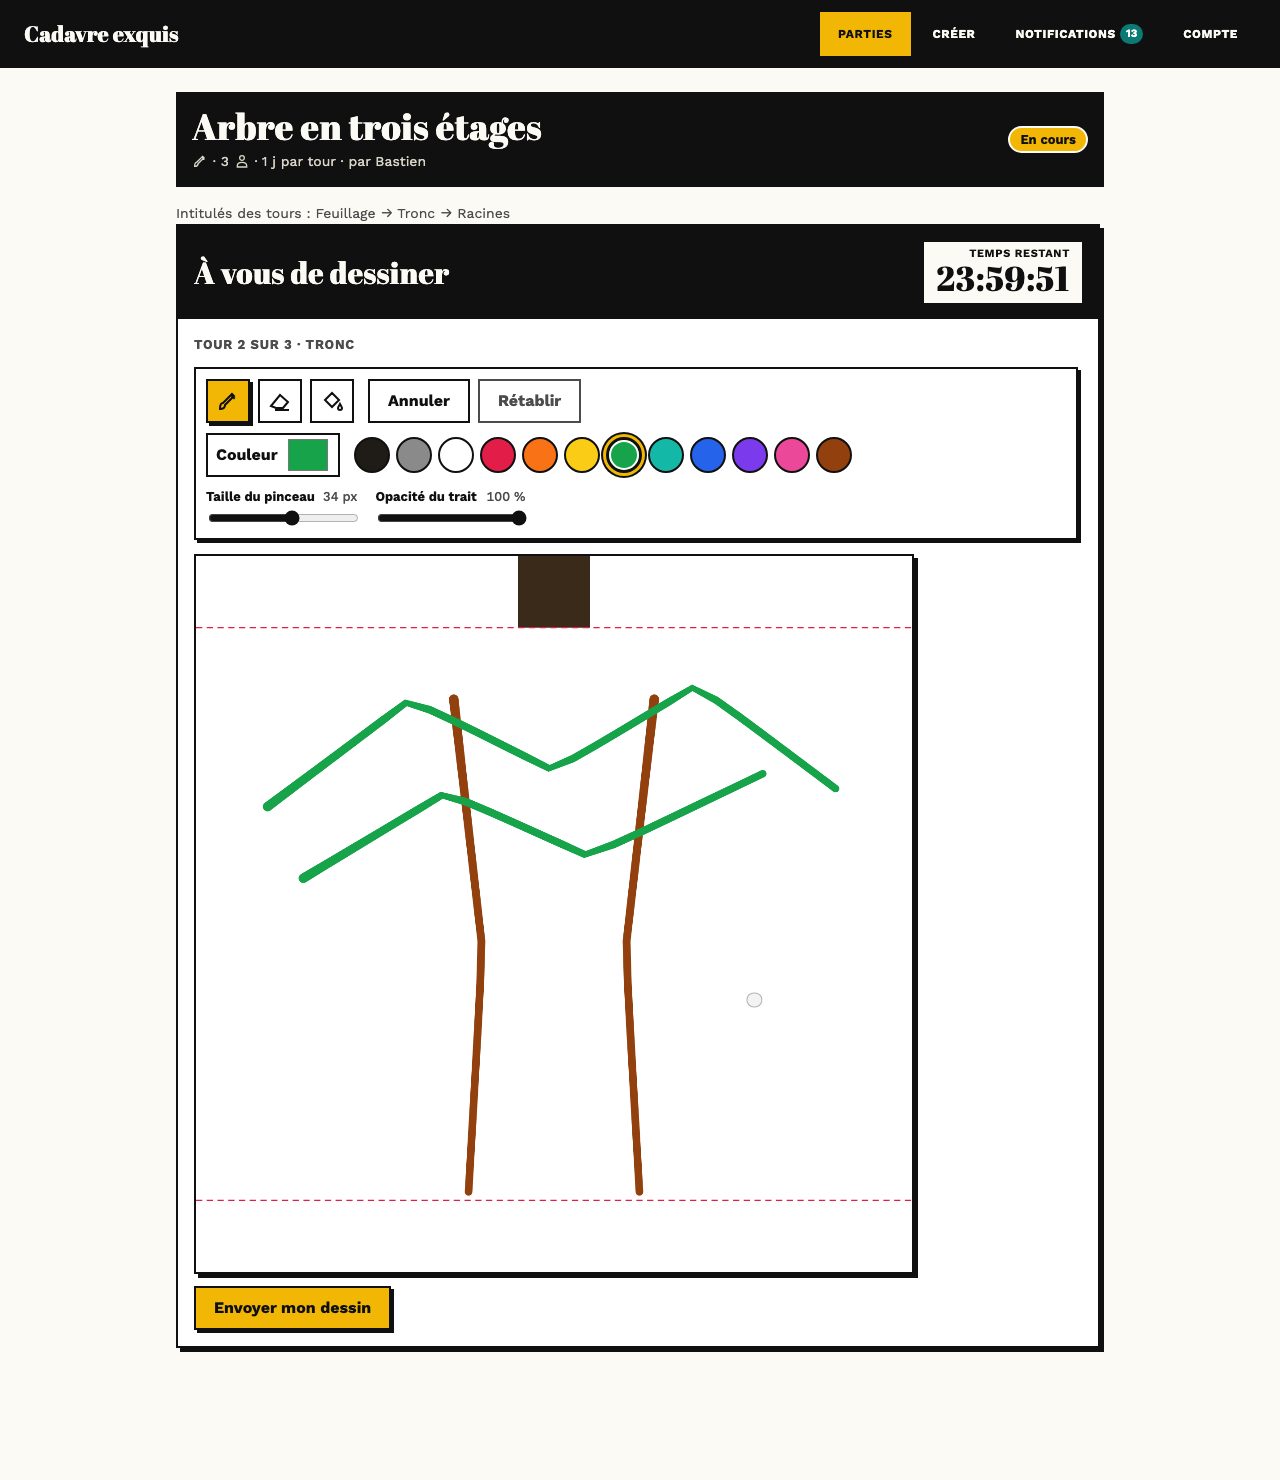
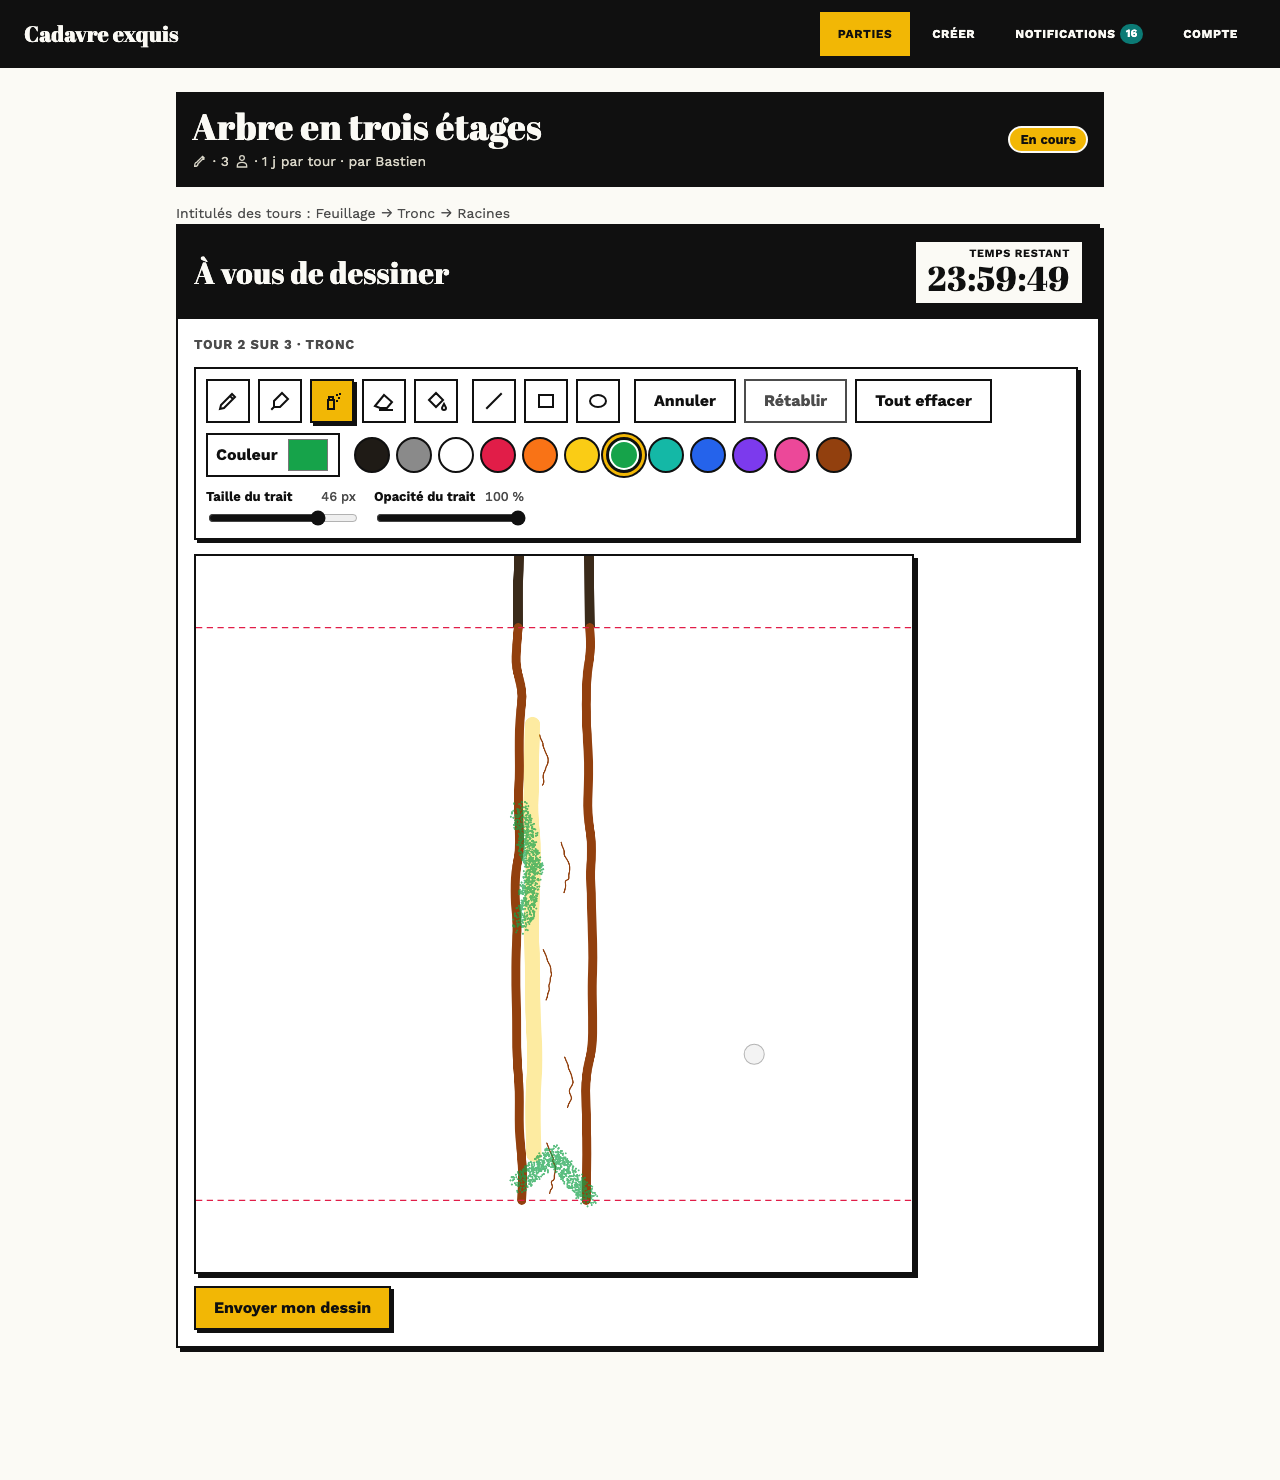
docs: README à jour (fonctionnalités actuelles) et captures régénérées avec des dessins faits main

diff --git a/scripts/capture-readme.ts b/scripts/capture-readme.ts
@@ -39,47 +39,135 @@ Object.assign(process.env, env);
 const log = (m: string) => console.log(`[capture] ${m}`);
 
 // ---------- Dessins ----------
+// Dessins « faits main » : contours légèrement tremblants, remplissages décalés du trait comme au feutre, hachures, doubles traits.
+// Les extrémités des lignes qui traversent la bande de raccord (cou, jambes, tronc) tombent exactement au même endroit d'un tour
+// à l'autre, pour que le dessin se prolonge sans rupture.
 type Palette = { main: string; accent: string; dark: string };
-const MONSTRE: Palette = { main: "#0B7A75", accent: "#F2B705", dark: "#101010" };
-const ARBRE: Palette = { main: "#2F6B3A", accent: "#8A5A2B", dark: "#3A2A1A" };
+const MONSTRE: Palette = { main: "#1B9C95", accent: "#F2B705", dark: "#1F1B16" };
+const ARBRE: Palette = { main: "#3E8B4A", accent: "#9A6A3A", dark: "#3A2A1A" };
 
 const svgOf = (inner: string) => Buffer.from(`<svg xmlns="http://www.w3.org/2000/svg" width="1600" height="1600" viewBox="0 0 1600 1600">${inner}</svg>`);
 
+/** Générateur pseudo-aléatoire déterministe (mulberry32) : les captures sont identiques d'une exécution à l'autre. */
+function rng(seed: number): () => number {
+  let a = seed >>> 0;
+  return () => {
+    a = (a + 0x6d2b79f5) >>> 0;
+    let t = a;
+    t = Math.imul(t ^ (t >>> 15), t | 1);
+    t ^= t + Math.imul(t ^ (t >>> 7), t | 61);
+    return ((t ^ (t >>> 14)) >>> 0) / 4294967296;
+  };
+}
+
+type Pt = [number, number];
+/** Courbe lisse (Catmull-Rom → Bézier) passant par les points. */
+function smooth(pts: Pt[], closed = false): string {
+  const n = pts.length;
+  const at = (i: number): Pt => (closed ? pts[(i + n) % n] : pts[Math.max(0, Math.min(n - 1, i))]);
+  let d = `M${pts[0][0].toFixed(1)} ${pts[0][1].toFixed(1)}`;
+  const last = closed ? n : n - 1;
+  for (let i = 0; i < last; i++) {
+    const [p0, p1, p2, p3] = [at(i - 1), at(i), at(i + 1), at(i + 2)];
+    const c1: Pt = [p1[0] + (p2[0] - p0[0]) / 6, p1[1] + (p2[1] - p0[1]) / 6];
+    const c2: Pt = [p2[0] - (p3[0] - p1[0]) / 6, p2[1] - (p3[1] - p1[1]) / 6];
+    d += ` C${c1[0].toFixed(1)} ${c1[1].toFixed(1)} ${c2[0].toFixed(1)} ${c2[1].toFixed(1)} ${p2[0].toFixed(1)} ${p2[1].toFixed(1)}`;
+  }
+  return d + (closed ? "Z" : "");
+}
+
+/** Ellipse irrégulière : le rayon varie légèrement le long du tour. */
+function blob(cx: number, cy: number, rx: number, ry: number, amp: number, r: () => number): Pt[] {
+  const n = 22;
+  const phase = r() * Math.PI * 2;
+  return Array.from({ length: n }, (_, i) => {
+    const a = (i / n) * Math.PI * 2;
+    const k = 1 + (amp / Math.max(rx, ry)) * (Math.sin(a * 3 + phase) * 0.6 + (r() - 0.5));
+    return [cx + Math.cos(a) * rx * k, cy + Math.sin(a) * ry * k] as Pt;
+  });
+}
+
+/** Ligne tremblante : le bruit s'annule aux extrémités, qui restent exactes. */
+function line(x0: number, y0: number, x1: number, y1: number, amp: number, r: () => number): Pt[] {
+  const n = Math.max(4, Math.round(Math.hypot(x1 - x0, y1 - y0) / 90));
+  const nx = -(y1 - y0), ny = x1 - x0;
+  const len = Math.hypot(nx, ny) || 1;
+  return Array.from({ length: n + 1 }, (_, i) => {
+    const t = i / n;
+    const e = Math.sin(Math.PI * t) * amp * (r() * 2 - 1);
+    return [x0 + (x1 - x0) * t + (nx / len) * e, y0 + (y1 - y0) * t + (ny / len) * e] as Pt;
+  });
+}
+
+const stroke = (d: string, color: string, w: number, extra = "") => `<path d="${d}" fill="none" stroke="${color}" stroke-width="${w}" stroke-linecap="round" stroke-linejoin="round" ${extra}/>`;
+
+/** Forme fermée « au feutre » : remplissage décalé et hachuré, puis double contour. */
+function filled(pts: Pt[], fill: string, ink: string, w: number, id: string, r: () => number, dx = 14, dy = 10): string {
+  const d = smooth(pts, true);
+  const hatch = Array.from({ length: 16 }, (_, i) => {
+    const y = -400 + i * 70 + r() * 20;
+    return `<path d="M-200 ${y} L2000 ${y + 520 + r() * 30}" stroke="${ink}" stroke-opacity=".18" stroke-width="7" stroke-linecap="round"/>`;
+  }).join("");
+  return `<defs><clipPath id="${id}"><path d="${d}" transform="translate(${dx} ${dy})"/></clipPath></defs>
+    <path d="${d}" transform="translate(${dx} ${dy})" fill="${fill}" fill-opacity=".92"/>
+    <g clip-path="url(#${id})">${hatch}</g>
+    ${stroke(d, ink, w)}
+    ${stroke(d, ink, w * 0.45, `transform="translate(${(r() * 8 - 4).toFixed(1)} ${(r() * 8 - 4).toFixed(1)})" stroke-opacity=".6"`)}`;
+}
+
 function shapes(k: number, p: Palette): string {
+  const r = rng(100 + k);
+  const ink = p.dark;
   if (k === 1) {
-    return `
-      <rect x="720" y="1000" width="160" height="600" fill="${p.dark}"/>
-      <circle cx="800" cy="640" r="430" fill="${p.main}" stroke="${p.dark}" stroke-width="22"/>
-      <polygon points="470,360 560,120 690,300" fill="${p.accent}" stroke="${p.dark}" stroke-width="18"/>
-      <polygon points="1130,360 1040,120 910,300" fill="${p.accent}" stroke="${p.dark}" stroke-width="18"/>
-      <circle cx="650" cy="560" r="105" fill="#fff" stroke="${p.dark}" stroke-width="16"/>
-      <circle cx="950" cy="560" r="105" fill="#fff" stroke="${p.dark}" stroke-width="16"/>
-      <circle cx="675" cy="575" r="42" fill="${p.dark}"/><circle cx="925" cy="575" r="42" fill="${p.dark}"/>
-      <path d="M560 800 Q800 1010 1040 800" fill="none" stroke="${p.dark}" stroke-width="30" stroke-linecap="round"/>
-      <rect x="720" y="1040" width="160" height="560" fill="${p.dark}"/>`;
+    // Cou (extrémités fixes en x = 735 et 865 sur la bande de raccord), puis tête, cornes, yeux, sourire.
+    const neck = [line(735, 1000, 735, 1600, 5, r), line(865, 1000, 865, 1600, 5, r)].map((l) => stroke(smooth(l), ink, 20)).join("");
+    const eye = (cx: number, dx: number, id: string) =>
+      filled(blob(cx, 580, 108, 104, 6, r), "#ffffff", ink, 14, id, r, 6, 5) + `<circle cx="${cx + dx}" cy="${598}" r="${40 + r() * 8}" fill="${ink}"/><circle cx="${cx + dx - 14}" cy="${582}" r="12" fill="#fff"/>`;
+    const horn = (pts: Pt[], id: string) => filled(pts, p.accent, ink, 16, id, r, 8, 6);
+    return `${neck}
+      ${horn([[480, 380], [540, 130], [610, 190], [700, 300], [600, 360]], "h1")}
+      ${horn([[1120, 380], [1070, 120], [990, 200], [900, 300], [1000, 360]], "h2")}
+      ${filled(blob(800, 650, 430, 410, 20, r), p.main, ink, 20, "head", r, 18, 12)}
+      ${eye(650, 14, "e1")}${eye(955, -10, "e2")}
+      ${stroke(smooth(line(560, 470, 700, 440, 10, r)), ink, 14)}${stroke(smooth(line(900, 440, 1040, 470, 10, r)), ink, 14)}
+      ${stroke(smooth([[560, 800], [640, 900], [800, 960], [960, 905], [1050, 790]]), ink, 26)}
+      ${[690, 760, 850, 930].map((x, i) => stroke(`M${x} ${[905, 940, 950, 925][i]} l${i % 2 ? 6 : -6} 44`, ink, 12)).join("")}
+      <circle cx="540" cy="760" r="38" fill="#F26B6B" fill-opacity=".45"/><circle cx="1060" cy="760" r="38" fill="#F26B6B" fill-opacity=".45"/>`;
   }
   if (k === 2) {
-    return `
-      <rect x="720" y="0" width="160" height="460" fill="${p.dark}"/>
-      <ellipse cx="800" cy="820" rx="520" ry="580" fill="${p.accent}" stroke="${p.dark}" stroke-width="22"/>
-      <path d="M330 700 Q120 760 150 1020" fill="none" stroke="${p.dark}" stroke-width="64" stroke-linecap="round"/>
-      <path d="M1270 700 Q1480 760 1450 1020" fill="none" stroke="${p.dark}" stroke-width="64" stroke-linecap="round"/>
-      <circle cx="800" cy="820" r="150" fill="${p.main}" stroke="${p.dark}" stroke-width="16"/>
-      <circle cx="560" cy="640" r="46" fill="${p.dark}"/><circle cx="1040" cy="640" r="46" fill="${p.dark}"/><circle cx="800" cy="560" r="46" fill="${p.dark}"/>
-      <rect x="560" y="1240" width="120" height="360" fill="${p.dark}"/>
-      <rect x="920" y="1240" width="120" height="360" fill="${p.dark}"/>`;
+    // Cou en haut (mêmes x qu'au tour 1), corps, bras, ventre, jambes (extrémités fixes en x = 565/680 et 920/1035 en bas).
+    const neck = [line(735, 0, 735, 520, 5, r), line(865, 0, 865, 520, 5, r)].map((l) => stroke(smooth(l), ink, 20)).join("");
+    const legs = [line(565, 1250, 565, 1600, 5, r), line(680, 1250, 680, 1600, 5, r), line(920, 1250, 920, 1600, 5, r), line(1035, 1250, 1035, 1600, 5, r)]
+      .map((l) => stroke(smooth(l), ink, 20)).join("");
+    return `${neck}${legs}
+      ${filled(blob(800, 840, 520, 560, 24, r), p.accent, ink, 20, "body", r, 16, 12)}
+      ${stroke(smooth([[330, 700], [220, 760], [165, 860], [170, 1010]]), ink, 54)}${stroke(smooth([[1270, 700], [1380, 770], [1440, 880], [1432, 1020]]), ink, 54)}
+      ${filled(blob(800, 850, 150, 140, 10, r), p.main, ink, 16, "belly", r, 8, 6)}
+      ${[[560, 650], [1040, 640], [800, 560], [650, 1070], [960, 1060]].map(([x, y]) => `<circle cx="${Math.round(x + (r() * 14 - 7))}" cy="${y}" r="${38 + r() * 12}" fill="${ink}" fill-opacity=".85"/>`).join("")}`;
   }
-  return `
-    <rect x="560" y="0" width="120" height="1250" fill="${p.dark}"/>
-    <rect x="920" y="0" width="120" height="1250" fill="${p.dark}"/>
-    <ellipse cx="560" cy="1330" rx="220" ry="90" fill="${p.main}" stroke="${p.dark}" stroke-width="20"/>
-    <ellipse cx="1040" cy="1330" rx="220" ry="90" fill="${p.main}" stroke="${p.dark}" stroke-width="20"/>
-    <line x1="120" y1="1450" x2="1480" y2="1450" stroke="${p.dark}" stroke-width="12" stroke-dasharray="4 36" stroke-linecap="round"/>`;
+  // k === 3 : jambes (extrémités fixes en haut), pieds, sol pointillé.
+  const legs = [line(565, 0, 565, 1250, 5, r), line(680, 0, 680, 1250, 5, r), line(920, 0, 920, 1250, 5, r), line(1035, 0, 1035, 1250, 5, r)]
+    .map((l) => stroke(smooth(l), ink, 20)).join("");
+  return `${legs}
+    ${filled(blob(560, 1330, 230, 92, 10, r), p.main, ink, 18, "f1", r, 8, 8)}
+    ${filled(blob(1040, 1330, 230, 92, 10, r), p.main, ink, 18, "f2", r, 8, 8)}
+    ${stroke(smooth(line(110, 1470, 1490, 1480, 10, r)), ink, 12, 'stroke-dasharray="3 34"')}`;
+}
+
+/** Arbre (tour 1) : feuillage en nuage, pommes, haut du tronc qui traverse la bande de raccord (x = 720 et 880). */
+function treeShapes(p: Palette): string {
+  const r = rng(300);
+  const trunk = [line(720, 620, 720, 1600, 5, r), line(880, 620, 880, 1600, 5, r)].map((l) => stroke(smooth(l), p.dark, 22)).join("");
+  const puffs = [[800, 420, 330, 280], [500, 520, 250, 220], [1100, 520, 250, 220], [650, 280, 220, 190], [960, 280, 220, 190]]
+    .map(([cx, cy, rx, ry], i) => filled(blob(cx, cy, rx, ry, 18, r), i % 2 ? "#4FA05A" : p.main, p.dark, 18, `leaf${i}`, r, 10, 10)).join("");
+  const apples = [[560, 560], [840, 330], [1060, 600], [700, 700]]
+    .map(([x, y]) => `<circle cx="${x}" cy="${y}" r="34" fill="#D6403A" stroke="${p.dark}" stroke-width="9"/><path d="M${x} ${y - 34} l8 -26" stroke="${p.dark}" stroke-width="8" stroke-linecap="round"/>`).join("");
+  return `${trunk}${puffs}${apples}`;
 }
 
 /** Dessin du tour `k` : la bande héritée du tour précédent est reposée en haut, comme dans l'éditeur. */
-async function drawTurn(k: number, p: Palette, previous?: Buffer): Promise<Buffer> {
-  const layers: OverlayOptions[] = [{ input: svgOf(shapes(k, p)) }];
+async function drawTurn(k: number, p: Palette, previous?: Buffer, tree = false): Promise<Buffer> {
+  const layers: OverlayOptions[] = [{ input: svgOf(tree ? treeShapes(p) : shapes(k, p)) }];
   if (previous) layers.push({ input: await extractStrip(previous, "down"), left: 0, top: 0 });
   return sharp({ create: { width: 1600, height: 1600, channels: 3, background: "#ffffff" } }).composite(layers).png().toBuffer();
 }
@@ -92,7 +180,22 @@ async function api<T>(res: Awaited<ReturnType<APIRequestContext["post"]>>): Prom
   return (await res.json()) as T;
 }
 
+/** `--preview <dossier>` : écrit seulement les dessins générés (monstre en trois tours, arbre) pour les relire, sans rien d'autre. */
+async function preview(dir: string) {
+  mkdirSync(dir, { recursive: true });
+  const m1 = await drawTurn(1, MONSTRE);
+  const m2 = await drawTurn(2, MONSTRE, m1);
+  const m3 = await drawTurn(3, MONSTRE, m2);
+  const { assembleDrawing } = await import("../src/lib/images/strip");
+  const final = await assembleDrawing([m1, m2, m3], "down");
+  await sharp(final.image).resize({ height: 1000 }).toFile(path.join(dir, "monstre.png"));
+  await sharp(await drawTurn(1, ARBRE, undefined, true)).resize({ height: 800 }).toFile(path.join(dir, "arbre.png"));
+  log(`aperçus dans ${dir}`);
+}
+
 async function main() {
+  const previewAt = process.argv.indexOf("--preview");
+  if (previewAt > 0) return preview(process.argv[previewAt + 1]);
   mkdirSync(OUT, { recursive: true });
   const admin = postgres(ADMIN_URL, { max: 1, onnotice: () => {} });
   await admin.unsafe(`DROP DATABASE IF EXISTS ${SHOTS_DB} WITH (FORCE)`);
@@ -170,6 +273,23 @@ async function main() {
     const { getStorage } = await import("../src/lib/storage");
     for (const g of [jardin, monstre]) await assembleFinalWork(drizzleDb.db, getStorage(), g);
 
+    // Avatars, commentaires, lien public et amis (par les services, comme le ferait l'application).
+    const { updateProfile } = await import("../src/lib/services/account");
+    const { addComment } = await import("../src/lib/services/comments");
+    const { setPublicLink } = await import("../src/lib/services/sharing");
+    const { ensureFriendCode, listFriendRequests, respondToFriendRequest, sendFriendRequestByCode } = await import("../src/lib/services/friends");
+    const gdb = drizzleDb.db;
+    await updateProfile(gdb, A.id, { avatar: { shape: "star", color: "mustard", bg: "teal" } });
+    await updateProfile(gdb, B.id, { avatar: { shape: "ring", color: "cream", bg: "red" } });
+    await updateProfile(gdb, C.id, { avatar: { shape: "hexagon", color: "ink", bg: "butter" } });
+    await updateProfile(gdb, D.id, { avatar: { shape: "dots", color: "pine", bg: "sand" } });
+    await addComment(gdb, { userId: C.id, gameId: jardin, body: "La lune qui se rendort à l'envers, j'adore cette image." });
+    await addComment(gdb, { userId: A.id, gameId: jardin, body: "Merci Chloé : j'étais bloquée avec ce corbeau et sa clé !" });
+    await setPublicLink(gdb, { userId: B.id, gameId: jardin, enabled: true });
+    await sendFriendRequestByCode(gdb, { userId: A.id, code: await ensureFriendCode(gdb, B.id) });
+    await respondToFriendRequest(gdb, { userId: B.id, requestId: (await listFriendRequests(gdb, B.id)).incoming[0].requestId, accept: true });
+    await sendFriendRequestByCode(gdb, { userId: C.id, code: await ensureFriendCode(gdb, A.id) });
+
     // 3. Texte en cours : c'est à Alice de jouer (tour 2)
     const voyage = await create(D, { ...textBase, name: "Voyage immobile", turns: 3, turnLabels: ["Départ", "Traversée", "Arrivée"], minWords: 15, maxWords: 60 }, [A, B]);
     await setOrder(voyage, [D, A, B]);
@@ -178,7 +298,7 @@ async function main() {
     // 4. Dessin en cours : c'est à Alice de jouer (tour 2)
     const arbre = await create(B, { ...drawBase, name: "Arbre en trois étages", turns: 3, turnLabels: ["Feuillage", "Tronc", "Racines"] }, [A, C]);
     await setOrder(arbre, [B, A, C]);
-    await png(B, arbre, await drawTurn(1, ARBRE));
+    await png(B, arbre, await drawTurn(1, ARBRE, undefined, true));
 
     // 5. Parties à rejoindre
     await create(C, { ...drawBase, name: "Les quatre saisons", turns: 4, turnDurationSeconds: 3600, turnLabels: ["Printemps", "Été", "Automne", "Hiver"] }, []);
@@ -213,20 +333,42 @@ async function main() {
       await page.waitForSelector("canvas.drawing-canvas");
       await page.waitForTimeout(1200);
       const box = (await page.locator("canvas.drawing-canvas").boundingBox())!;
+      const jitter = rng(7);
       const at = (fx: number, fy: number): [number, number] => [box.x + box.width * fx, box.y + box.height * fy];
-      const stroke = async (pts: [number, number][]) => {
+      /** Trait à la main : points intermédiaires légèrement décalés, comme un geste réel. */
+      const hand = async (pts: [number, number][], wobble = 0.006) => {
         await page.mouse.move(...at(...pts[0]));
         await page.mouse.down();
-        for (const p of pts.slice(1)) await page.mouse.move(...at(...p), { steps: 6 });
+        for (let i = 1; i < pts.length; i++) {
+          const [x0, y0] = pts[i - 1];
+          const [x1, y1] = pts[i];
+          for (let s = 1; s <= 7; s++) {
+            const t = s / 7;
+            const wob = Math.sin(Math.PI * t) * wobble * (jitter() * 2 - 1);
+            await page.mouse.move(...at(x0 + (x1 - x0) * t + wob, y0 + (y1 - y0) * t + wob * 0.7));
+          }
+        }
         await page.mouse.up();
       };
+      // Le tronc prolonge celui de la bande reçue (x ≈ 0,45 et 0,55) : deux traits épais bruns, puis l'écorce au crayon fin.
       await page.getByRole("button", { name: "Marron", exact: true }).click();
-      await page.getByLabel("Taille du pinceau").fill("34");
-      await stroke([[0.36, 0.2], [0.4, 0.55], [0.38, 0.9]]);
-      await stroke([[0.64, 0.2], [0.6, 0.55], [0.62, 0.9]]);
+      await page.getByRole("button", { name: "Épais", exact: true }).click();
+      await hand([[0.45, 0.1], [0.452, 0.3], [0.447, 0.55], [0.455, 0.9]]);
+      await hand([[0.55, 0.1], [0.548, 0.32], [0.553, 0.6], [0.545, 0.9]]);
+      await page.getByRole("button", { name: "Fin", exact: true }).click();
+      for (const [x, y] of [[0.48, 0.25], [0.51, 0.4], [0.485, 0.55], [0.515, 0.7], [0.49, 0.82]] as [number, number][]) {
+        await hand([[x, y], [x + 0.012, y + 0.035], [x + 0.004, y + 0.07]], 0.003);
+      }
+      // Reflet de lumière au surligneur, mousse à l'aérographe.
+      await page.getByRole("button", { name: "Jaune", exact: true }).click();
+      await page.getByRole("button", { name: "Surligneur", exact: true }).click();
+      await page.getByLabel("Taille du trait").fill("34");
+      await hand([[0.47, 0.16], [0.468, 0.45], [0.472, 0.76]], 0.004);
       await page.getByRole("button", { name: "Vert", exact: true }).click();
-      await stroke([[0.1, 0.35], [0.3, 0.2], [0.5, 0.3], [0.7, 0.18], [0.9, 0.33]]);
-      await stroke([[0.15, 0.45], [0.35, 0.33], [0.55, 0.42], [0.8, 0.3]]);
+      await page.getByRole("button", { name: "Aérographe", exact: true }).click();
+      await page.getByLabel("Taille du trait").fill("46");
+      await hand([[0.452, 0.8], [0.5, 0.76], [0.548, 0.82]], 0.004);
+      await hand([[0.452, 0.28], [0.472, 0.36], [0.455, 0.44]], 0.004);
       if (hover) await page.mouse.move(...at(0.78, 0.62), { steps: 4 });
     };
 
@@ -266,6 +408,10 @@ async function main() {
       await page.goto(`${BASE}/games/${monstre}/final`);
       await page.getByText("Afficher avec jointures et noms").click();
       await shot(page, "oeuvre-dessin-mobile");
+      await page.setViewportSize({ width: 390, height: 1300 });
+      await page.goto(`${BASE}/friends`);
+      await shot(page, "amis-mobile");
+      await page.setViewportSize({ width: 390, height: 1700 });
       await page.goto(`${BASE}/account`);
       await shot(page, "compte-mobile");
       await ctx.close();

diff --git a/src/components/AccountForms.tsx b/src/components/AccountForms.tsx
@@ -73,9 +73,9 @@ export function EmailPreference({ initial }: { initial: boolean }) {
 }
 
 const REMINDER_LABELS: [number, string][] = [
-  [50, "Quand il me reste la moitié du temps"],
-  [25, "Quand il me reste un quart du temps"],
-  [10, "Quand il me reste un dixième du temps"],
+  [50, "À la moitié du temps restant"],
+  [25, "Au quart du temps restant"],
+  [10, "Au dixième du temps restant"],
   [0, "Aucun rappel"],
 ];
 
